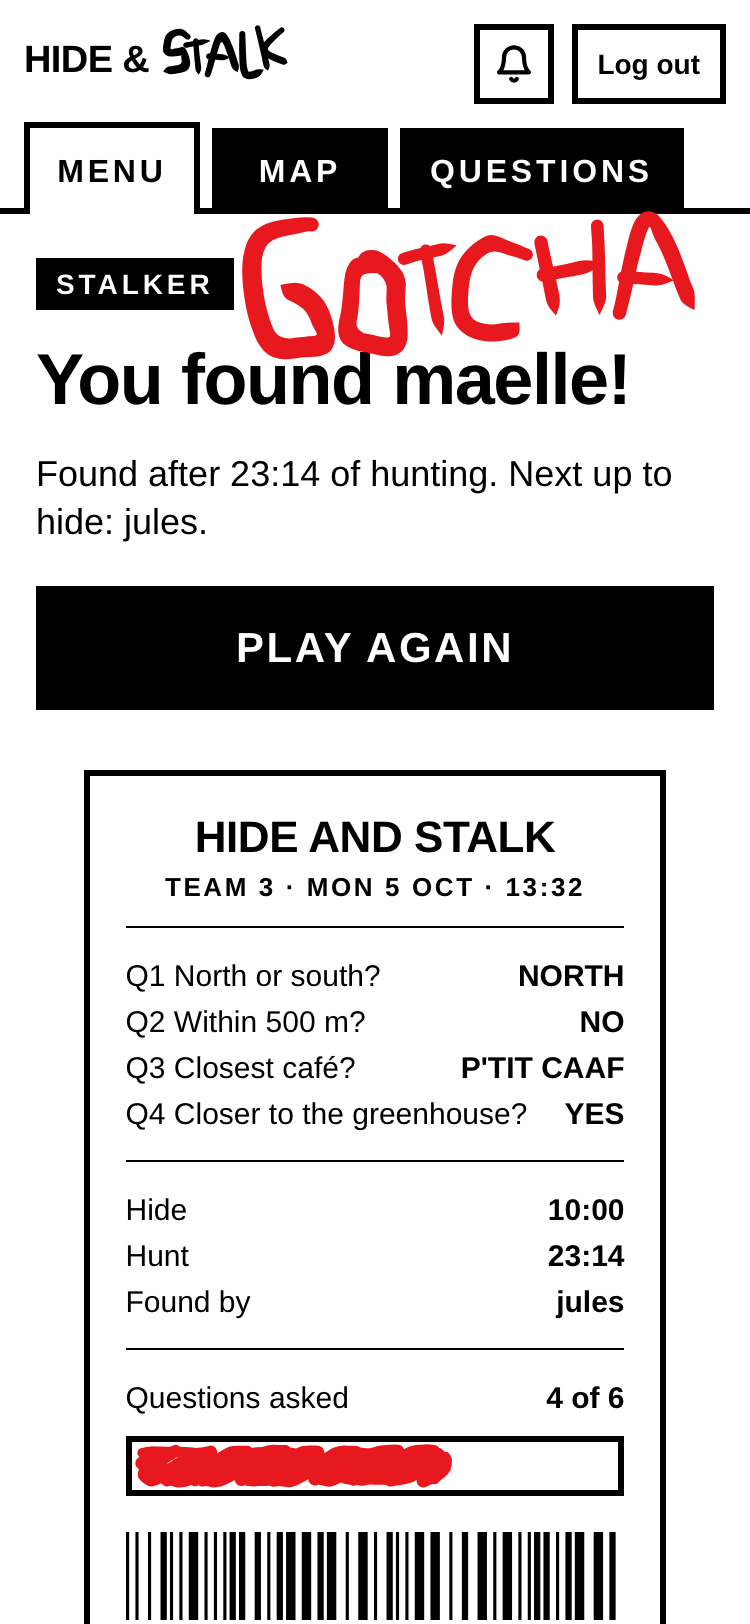
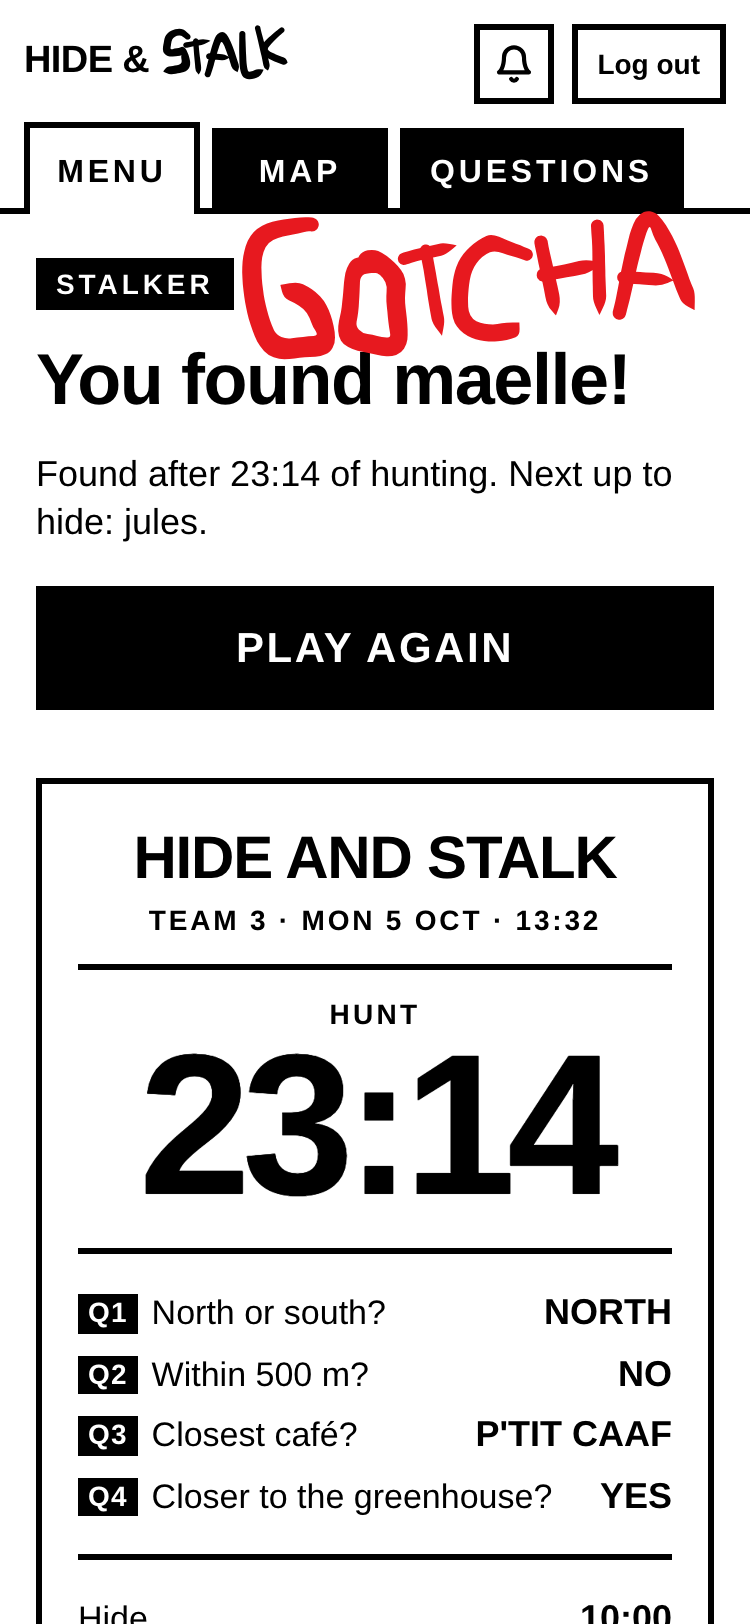
Design round 1: the receipt, R2 and R4 together, heavier
The hunt time big on the slip, and the round's final hints map printed
where the bar was: the app's own map (drawn by the lab at the slip's
size, framed on the white zone), black and white only, no red line, no X.
The slip as heavy as the rest of the app: as wide as PLAY AGAIN, 3 px
rules, bigger text, the question numbers in black boxes. R1 and R3 and
their renders are gone; the gallery's receipt section with them.

Changed region(s): [[0.0307, 0.4618, 0.9507, 1.0]]

diff --git a/design/promo/round-1/app/decorate.js b/design/promo/round-1/app/decorate.js
@@ -266,16 +266,18 @@
         return `<svg class="rc-tear" viewBox="0 0 100 12" preserveAspectRatio="none" width="100%" height="12"><path d="${d} Z" fill="#fff" stroke="none"/><path d="${d}" fill="none" stroke="#000" stroke-width="3" vector-effect="non-scaling-stroke" stroke-linejoin="miter"/></svg>`;
     }
     /**
-     * The receipt, as typeset. Treatments being tried (rcv): r1 the slip on a
-     * black table (CSS only), r2 the hunt time as big as the hiding countdown,
-     * r3 the red word stamped on the slip (drawn after), r4 the final hints
-     * map printed where the bar was (drawn after).
+     * The receipt, as typeset: the hunt time as big as the hiding countdown
+     * (R2), and where the bar was, the round's final hints map printed on the
+     * slip (R4). The map itself is drawn by the lab (Maps2.drawReceipt) and set
+     * by tools/shoot-app.mjs once the slip is laid out: see receiptMapNeed.
      */
-    function receiptEl(rc, rcv = "") {
-        const row = ([a, b]) => `<div class="rc-row"><span>${a}</span><b>${b === "REDACTED" ? '<i class="rc-redact"></i>' : b}</b></div>`;
+    function receiptEl(rc) {
+        // "Q1 North or south?": the number in a black box, like the app's labels.
+        const label = (a) => a.replace(/^(Q\d+) /, '<em class="rc-q">$1</em>');
+        const row = ([a, b]) => `<div class="rc-row"><span>${label(a)}</span><b>${b === "REDACTED" ? '<i class="rc-redact"></i>' : b}</b></div>`;
         const hunt = rc.totals.find(([a]) => a === "Hunt");
-        const hero = rcv === "r2" && hunt ? `<div class="rc-hero"><span>${hunt[0]}</span><b>${hunt[1]}</b></div><div class="rc-rule"></div>` : "";
-        const totals = hero ? rc.totals.filter((t) => t !== hunt) : rc.totals;
+        const hero = hunt ? `<div class="rc-hero"><span>${hunt[0]}</span><b>${hunt[1]}</b></div><div class="rc-rule"></div>` : "";
+        const totals = rc.totals.filter((t) => t !== hunt);
         const html = `<div class="receipt"><div class="rc-paper">
             <div class="rc-title">HIDE AND STALK</div>
             <div class="rc-head">${rc.head}</div>
@@ -283,7 +285,8 @@
             <div class="rc-rule"></div>${totals.map(row).join("")}
             <div class="rc-rule"></div>
             <div class="rc-row"><span>Questions asked</span><b>${rc.asked} of ${rc.of}</b></div>
-            ${rcv === "r4" ? '<div class="rc-map"></div>' : '<div class="rc-bar"></div>'}
+            <div class="rc-map"><img alt=""></div>
+            <div class="rc-osm">© OpenStreetMap</div>
             <div class="rc-code">${barcode(rc.head)}</div>
         </div>${tear()}</div>`;
         const btn = $("#team-again-btn");
@@ -291,42 +294,25 @@
     }
 
     /**
-     * r4: where she could still be when the round ended, printed small like a
-     * till's logo: the campus black, the hints layer's white left in it (the
-     * app's own answer-by-answer solve, src/hints.js), north up. Returns a
-     * function from [lng, lat] to the map's pixels, for the X.
+     * What the receipt's map needs drawn: its size inside the frame, and where
+     * she could still be when the round ended (the app's own answer-by-answer
+     * solve, src/hints.js). Null when there's no slip.
      */
-    function receiptMap(el) {
+    function receiptMapNeed() {
+        const el = $(".rc-map");
+        if (!el) return null;
         let region = null;
         HNSHints.onStatus((s) => {
             if (s.region) region = s.region;
         });
         HNSHints.setEnabled(true);
-        const ring = window.HNSLocations.layers.find((l) => l.kind === "polygon").ring;
-        const lat0 = ring.reduce((s, p) => s + p[1], 0) / ring.length;
-        const kx = Math.cos((lat0 * Math.PI) / 180);
-        const xs = ring.map((p) => p[0] * kx);
-        const ys = ring.map((p) => -p[1]);
-        const [x0, x1, y0, y1] = [Math.min(...xs), Math.max(...xs), Math.min(...ys), Math.max(...ys)];
-        const pad = 8;
-        const w = el.clientWidth;
-        const k = (w - pad * 2) / (x1 - x0);
-        const h = Math.round((y1 - y0) * k + pad * 2);
-        const P = ([lng, lat]) => [pad + (lng * kx - x0) * k, pad + (-lat - y0) * k];
-        const d = (rings) => rings.map((r) => `M${r.map((p) => P(p).map((v) => v.toFixed(1)).join(" ")).join("L")}Z`).join("");
-        const g = region?.geometry;
-        const polys = !g ? [] : g.type === "Polygon" ? [g.coordinates] : g.coordinates;
-        el.innerHTML = `<svg width="${w}" height="${h}" style="display:block"><path d="${d([ring])}" fill="#000"/><path d="${d(polys.flat())}" fill="#fff" fill-rule="evenodd"/></svg>`;
-        return P;
+        return region && { w: el.clientWidth, h: el.clientHeight, region };
     }
 
     function decorate(styleKey, screen, extra = null) {
         const perm = extra?.perm ?? null;
-        // The receipt's treatment being tried, if any (see receiptEl).
-        const rcv = extra?.rc ?? "";
         const S = STYLES[styleKey];
         document.body.dataset.style = styleKey;
-        document.body.dataset.rc = rcv;
         if (S.prune) prune(screen);
         const ink = S.dark ? "#fff" : "#000";
 
@@ -365,53 +351,7 @@
                 P.add(Ink.write(who, { x: b.x + 6, y: b.y + b.h - 6, size: 22, seed: `ini${sign.dataset.i}`, color: ink, importance: "info", tilt: -6 }).svg);
             }
         }
-        if (extra?.receipt && S.prune && visible($("#team-again-btn"))) {
-            receiptEl(extra.receipt, rcv);
-            const bar = $(".rc-bar");
-            if (bar) {
-                const b = L.box(bar);
-                const w = (b.w - 16) * (extra.receipt.asked / extra.receipt.of);
-                // Ruled out, coloured in by hand; stays inside the bar.
-                L.add(Ink.colorIn([[[b.x + 8, b.y + 8], [b.x + 3 + w, b.y + 8], [b.x + 3 + w, b.y + b.h - 8], [b.x + 8, b.y + b.h - 8]]], { seed: `bar${screen}`, weight: 7, overshoot: 0 }));
-            }
-            const map = $(".rc-map");
-            if (map) {
-                const P = receiptMap(map);
-                // Where they got her: the X (her own receipt keeps it redacted, like Where).
-                if (screen === "found" && extra.receipt.hider) {
-                    const m = L.box(map);
-                    const [x, y] = P(extra.receipt.hider);
-                    L.add(Ink.cross(m.x + x, m.y + y, 9, { seed: "rcx", weight: 5 }));
-                }
-            }
-            // r3: the red word stamped across the slip, over the answers, instead of over the title.
-            if (rcv === "r3") {
-                const rows = $$(".rc-paper .rc-row");
-                const top = L.box(rows[0]);
-                const last = L.box(rows[extra.receipt.lines.length - 1]);
-                const paper = L.box($(".rc-paper"));
-                const cx = paper.x + paper.w / 2;
-                const cy = (top.y + last.y + last.h) / 2;
-                let words;
-                let ww;
-                let wh;
-                if (screen === "found") {
-                    const g = Ink.tuck("GOTCHA", { size: 50, seed: "gotcha", mess: 1.2, tilt: 0, sizes: [1.5, 1, 0.98, 1.02, 0.96, 1.04], rises: [0.12, 0, 0.02, -0.02, 0.03, 0], spin: 4 });
-                    words = `<g transform="translate(${cx - g.box.x - g.box.w / 2} ${cy - g.box.y - g.box.h / 2})">${g.svg}</g>`;
-                    [ww, wh] = [g.box.w, g.box.h];
-                } else {
-                    // Two lines, a baseline 46 px under the other (write's y is the baseline).
-                    const o = { size: 34, tilt: 0, importance: "key", weight: 34 * 0.2 };
-                    const a = Ink.write("HOW ABOUT", { ...o, seed: "hat1" });
-                    const b = Ink.write("THAT.", { ...o, seed: "hat2" });
-                    ww = Math.max(a.width, b.width);
-                    wh = 34 + 46;
-                    words = Ink.write("HOW ABOUT", { ...o, seed: "hat1", x: cx - a.width / 2, y: cy - 6 }).svg + Ink.write("THAT.", { ...o, seed: "hat2", x: cx - b.width / 2, y: cy + 40 }).svg;
-                }
-                const frame = Ink.box(cx - ww / 2 - 16, cy - wh / 2 - 14, ww + 32, wh + 28, { seed: `stamp${screen}`, weight: 5, jitter: 5 });
-                L.add(`<g transform="rotate(-11 ${cx} ${cy})">${frame}${words}</g>`);
-            }
-        }
+        if (extra?.receipt && S.prune && visible($("#team-again-btn"))) receiptEl(extra.receipt);
         if (perm) {
             permSheet(perm);
             // The one thing to do next gets the arrow; what's done needs nothing.
@@ -629,7 +569,7 @@
             const pb = p && visible(p) ? L.box(p) : { x: tb.x, y: tb.y + 200, w: 300, h: 0 };
             noteAt(L, "WALK. DON'T RUN.", pb.x + 8, pb.y + pb.h + 86, { size: 30, maxWidth: 330, tilt: -4, importance: "key", weight: 6.2 });
         }
-        if ((screen === "found" || screen === "win") && tb && rcv !== "r3") {
+        if ((screen === "found" || screen === "win") && tb) {
             if (S.prune) {
                 // Above the title, just catching its top edge.
                 if (screen === "found") {
@@ -681,5 +621,5 @@
         }
     }
 
-    window.InkApp = { decorate };
+    window.InkApp = { decorate, receiptMapNeed };
 })();

diff --git a/design/promo/round-1/gallery/index.html b/design/promo/round-1/gallery/index.html
@@ -98,7 +98,7 @@ body.only-kept .tile:not(.kept):not(.settled-tile) { display: none; }
     </header>
 
     <nav class="bar" aria-label="Sections">
-        <a href="#post">The post</a><a href="#screens">Screens</a><a href="#opening">Opening</a><a href="#login">Log in</a><a href="#lobby">Lobby</a><a href="#hider">Hider</a><a href="#stalkers">Stalkers</a><a href="#map">Map</a><a href="#end">End</a><a href="#receipt">Receipt</a><a href="#pieces">Pieces</a>
+        <a href="#post">The post</a><a href="#screens">Screens</a><a href="#opening">Opening</a><a href="#login">Log in</a><a href="#lobby">Lobby</a><a href="#hider">Hider</a><a href="#stalkers">Stalkers</a><a href="#map">Map</a><a href="#end">End</a><a href="#pieces">Pieces</a>
         <span class="spacer"></span>
     </nav>
 
@@ -109,7 +109,7 @@ body.only-kept .tile:not(.kept):not(.settled-tile) { display: none; }
 
 <script>
 // The review: the post (the source of truth), then every app screen as it
-// stands (with the receipt options), then the one piece no screen shows.
+// stands, then the one piece no screen shows.
 // Times are Montréal time: Tue = Sep 29, Wed = Sep 30, Thu = Oct 1.
 // Who: c1 / c2 = the two cloud sessions (their commits; their chats aren't on
 // this Mac), m = you, in the map session on this Mac (Wed 01:43-03:38),
@@ -382,21 +382,25 @@ const CHAPTERS = [
             ["Tue 17:26", "c1:9f9f429", "First drawn"],
             ["Tue 20:19", "c1:3096ae5", "The round as a receipt"],
             ["Tue 23:56", "c1:e1d93d8", "The receipt's barcode"],
-        ], "Thu 12:25", "E23"],
+            ["Thu 14:42", "y", "The receipt: R2 and R4 together (the hunt time big, the final hints map on the slip); the map the app's own, black and white, no red line, no X; heavier: as wide as PLAY AGAIN, 3 px rules, bigger text, the question numbers in black boxes"],
+        ], "Thu 14:47", "E23"],
         ["S72", "Their receipt, scrolled to its end", app("23b", "found"), [
             ["Tue 20:19", "c1:3096ae5", "First drawn"],
             ["Tue 23:56", "c1:e1d93d8", "The barcode"],
             ["Wed 07:02", "s", "“greenhouse”, singular"],
-        ], "Thu 12:25", "E23b"],
+            ["Thu 14:42", "y", "The receipt: R2 and R4 together (the hunt time big, the final hints map on the slip); the map the app's own, black and white, no red line, no X; heavier: as wide as PLAY AGAIN, 3 px rules, bigger text, the question numbers in black boxes"],
+        ], "Thu 14:47", "E23b"],
         ["S73", "The hider wins: HOW ABOUT THAT.", app("24", "win"), [
             ["Tue 17:26", "c1:9f9f429", "First drawn"],
             ["Tue 20:19", "c1:3096ae5", "The receipt, where she hid redacted"],
             ["Thu 12:25", "t", "The QUESTIONS tab, as on the post's maps"],
-        ], "Thu 14:02", "E24"],
+            ["Thu 14:42", "y", "The receipt: R2 and R4 together (the hunt time big, the final hints map on the slip); the map the app's own, black and white, no red line, no X; heavier: as wide as PLAY AGAIN, 3 px rules, bigger text, the question numbers in black boxes"],
+        ], "Thu 14:47", "E24"],
         ["S74", "Her receipt, where she was redacted", app("24b", "win"), [
             ["Tue 20:19", "c1:3096ae5", "First drawn"],
             ["Wed 07:02", "s", "“greenhouse”, singular"],
-        ], "Thu 14:02", "E24b"],
+            ["Thu 14:42", "y", "The receipt: R2 and R4 together (the hunt time big, the final hints map on the slip); the map the app's own, black and white, no red line, no X; heavier: as wide as PLAY AGAIN, 3 px rules, bigger text, the question numbers in black boxes"],
+        ], "Thu 14:47", "E24b"],
     ]],
 ];
 
@@ -407,16 +411,6 @@ const PIECES = [
         ["Wed 00:51", "c1:b02ac5f", "Settled, as one card"],
     ], "Wed 01:55", "C19"],
 ];
-
-// The receipt, more drama (asked Thu 13:54): four treatments, each on the four
-// end screens, rendered with RC=r1..r4 (tools/shoot-app.mjs). [code, name, what, key, rendered].
-const RC_OPTIONS = [
-    ["R1", "On a black table", "The slip on black, edge to edge, from under PLAY AGAIN down: the one white thing left on the screen.", "r1", "Thu 14:08"],
-    ["R2", "Big numbers", "The hunt time as big as the hiding countdown (S41); the rest of the slip as it was.", "r2", "Thu 14:05"],
-    ["R3", "Stamped", "GOTCHA (or HOW ABOUT THAT.) stamped across the answers instead of written over the title; the print shows through the red, like ink.", "r3", "Thu 14:09"],
-    ["R4", "The map on the slip", "Where the bar was, the round's final hints layer printed small: the campus black, the white she could still be in, the X where they got her. Her own receipt has no X: Where stays redacted.", "r4", "Thu 14:09"],
-];
-const RC_VIEWS = [["a", "23", "-found", "Stalkers win (S71)"], ["b", "23", "b-found", "Their receipt, to its end (S72)"], ["c", "24", "-win", "The hider wins (S73)"], ["d", "24", "b-win", "Her receipt, to its end (S74)"]];
 
 const tl = (events, rendered) => {
     const [made, ...rest] = events;
@@ -447,14 +441,6 @@ for (const [id, head, intro, items] of CHAPTERS) {
     html += `<h3 id="${id}">${head}</h3>${intro ? `<p class="note">${intro}</p>` : ""}<div class="grid">`;
     for (const it of items) html += tile(...it);
     html += `</div>`;
-    if (id === "end") {
-        html += `<h3 id="receipt">The receipt, with more drama</h3><p class="note">Four ways to try, each on the four end screens above. Pick one, or mix them (R2's numbers on R1's table, say).</p>`;
-        for (const [code, name, what, key, rendered] of RC_OPTIONS) {
-            html += `<div class="opt"><h3>${code} · ${name}</h3><p class="note">${what}</p><div class="grid">`;
-            for (const [v, n, slug, cap] of RC_VIEWS) html += tile(code + v, cap, `img/E-${n}${key}${slug}.png`, [["Thu 13:54", "y", "More drama or contrast on the receipt: " + name.toLowerCase()]], rendered);
-            html += `</div></div>`;
-        }
-    }
 }
 html += `</section>`;
 

diff --git a/design/promo/round-1/app/style-e.css b/design/promo/round-1/app/style-e.css
@@ -288,33 +288,33 @@ button, input { font-family: inherit; }
 .rule-ok { margin-top: 18px; }
 
 /* The end: the round as a receipt ---------------------------------------- */
-.receipt { margin: 24px auto 0; width: 86%; filter: drop-shadow(0 0 0 #000); }
+/* As heavy as the rest of the app: as wide as PLAY AGAIN, the 3 px rules,
+   the text at the app's sizes, bold where it counts. */
+.receipt { margin: 28px 0 0; width: 100%; }
 .rc-paper {
-    position: relative; padding: 18px 18px 30px; background: var(--paper); border: var(--rule) solid var(--ink); border-bottom: none;
+    position: relative; padding: 22px 18px 30px; background: var(--paper); border: var(--rule) solid var(--ink); border-bottom: none;
     /* the torn bottom edge */
 }
-.rc-title { font-size: 22px; font-weight: 700; letter-spacing: -.01em; text-align: center; }
-.rc-head { margin-top: 4px; font-size: 13px; font-weight: 700; letter-spacing: .1em; text-align: center; }
-.rc-rule { margin: 12px 0; border-top: 1.5px solid var(--ink); }
+.rc-title { font-size: 30px; font-weight: 700; line-height: 1; letter-spacing: -.02em; text-align: center; }
+.rc-head { margin-top: 8px; font-size: 14px; font-weight: 700; letter-spacing: .1em; text-align: center; }
+.rc-rule { margin: 14px 0; border-top: var(--rule) solid var(--ink); }
 .rc-code { margin-top: 18px; }
-.rc-num { margin-top: 4px; font-size: 11px; font-weight: 700; letter-spacing: .32em; text-align: center; }
+.rc-code svg { height: 60px; }
+.rc-num { margin-top: 6px; font-size: 13px; font-weight: 700; letter-spacing: .32em; text-align: center; }
 /* The torn bottom: its line is the sides' line, zigzagging across. */
 .rc-tear { display: block; margin-top: -1px; overflow: visible; }
-.rc-row { display: flex; justify-content: space-between; gap: 10px; padding: 3px 0; font-size: 15px; }
-.rc-row b { text-align: right; white-space: nowrap; }
-.rc-redact { display: inline-block; width: 110px; height: 15px; background: var(--ink); vertical-align: -2px; }
-.rc-bar { margin-top: 8px; height: 30px; box-sizing: border-box; border: var(--rule) solid var(--ink); }
-/* Treatments being tried (body[data-rc], see receiptEl in app/decorate.js). */
-/* r1: the slip on a black table, edge to edge, from under PLAY AGAIN down. */
-body[data-rc="r1"] .receipt { margin-top: 28px; padding-top: 30px; background: var(--ink); filter: none; box-shadow: 0 0 0 100vmax var(--ink); clip-path: inset(0 -100vmax -100vmax -100vmax); }
-/* r3: the stamp's red sits in the print, like ink: the type shows through it. */
-body[data-rc="r3"] #view-menu > .ink-layer { mix-blend-mode: multiply; }
-/* r2: the hunt time as big as the hiding countdown's. */
+.rc-row { display: flex; justify-content: space-between; align-items: baseline; gap: 10px; padding: 4px 0; font-size: 17px; line-height: 1.25; }
+.rc-row b { font-size: 18px; text-align: right; white-space: nowrap; }
+.rc-q { display: inline-block; margin-right: 7px; padding: 1px 5px; background: var(--ink); color: var(--paper); font-size: 14px; font-style: normal; font-weight: 700; letter-spacing: .04em; vertical-align: 1px; }
+.rc-redact { display: inline-block; width: 120px; height: 19px; background: var(--ink); vertical-align: -3px; }
+/* The hunt time as big as the hiding countdown's. */
 .rc-hero { text-align: center; }
-.rc-hero span { display: block; font-size: 13px; font-weight: 700; letter-spacing: .12em; text-transform: uppercase; }
-.rc-hero b { display: block; font-size: 88px; font-weight: 700; line-height: .95; letter-spacing: -.04em; font-variant-numeric: tabular-nums; }
-/* r4: the final hints map, printed where the bar was. */
-.rc-map { margin-top: 10px; border: var(--rule) solid var(--ink); }
+.rc-hero span { display: block; font-size: 14px; font-weight: 700; letter-spacing: .12em; text-transform: uppercase; }
+.rc-hero b { display: block; font-size: 100px; font-weight: 700; line-height: .95; letter-spacing: -.04em; font-variant-numeric: tabular-nums; }
+/* The final hints map, printed where the bar was (drawn by the lab, see receiptMapNeed). */
+.rc-map { margin-top: 12px; aspect-ratio: 1 / .9; box-sizing: border-box; border: var(--rule) solid var(--ink); background: var(--ink); }
+.rc-map img { display: block; width: 100%; height: 100%; }
+.rc-osm { margin-top: 4px; font-size: 11px; text-align: right; }
 
 /* Third pass ------------------------------------------------------------- */
 /* Later: there, but small, so nobody presses it by mistake. */

diff --git a/design/promo/round-1/lab/maps2.js b/design/promo/round-1/lab/maps2.js
@@ -1060,5 +1060,41 @@
     }
     const POST = Object.fromEntries(Object.entries(POST_PLACES).map(([k, list]) => [k, list.map((p) => p.name)]));
 
-    window.Maps2 = { tagsOnly, youOnly, pinOnly, list: LIST.map((o, i) => ({ n: i + 1, name: o.name })), draw, drawSkin, drawHint, drawPost, POST, SKIN_LIST };
+    /**
+     * The receipt's map (app/decorate.js): the round's final hints layer, printed
+     * as the map shows it (MAP_SKIN, north up, framed on the white zone), only black and
+     * white: what's ruled out inverted, the white she could still be in as the
+     * map. No red, no line, no X. spec: { region } (GeoJSON, from the app's own
+     * solve, src/hints.js); root is already w x h.
+     */
+    async function drawReceipt(root, spec, w, h) {
+        root.style.background = "#fff";
+        const layer = (inv) => {
+            const el = document.createElement("div");
+            el.style.cssText = `position:absolute;left:0;top:0;width:${w}px;height:${h}px;background:#fff${inv ? ";filter:invert(1)" : ""}`;
+            root.appendChild(el);
+            return el;
+        };
+        // The same map twice, each on its own Leaflet map framed the same way:
+        // on the white she could still be in, with the streets around it.
+        const zone = L.geoJSON(spec.region).getBounds();
+        await OSMDraw.ready;
+        const print = (el) => {
+            const m = L.map(el, { zoomControl: false, attributionControl: false, zoomSnap: 0, fadeAnimation: false, zoomAnimation: false });
+            m.fitBounds(zone, { padding: [w * 0.22, h * 0.22], animate: false });
+            el.appendChild(OSMDraw.render(m, DATA_SKINS[MAP_SKIN], w, h));
+            return m;
+        };
+        print(layer(true));
+        const open = layer(false);
+        const map = print(open);
+        const P = ([lng, lat]) => {
+            const p = map.latLngToContainerPoint([lat, lng]);
+            return [p.x, p.y];
+        };
+        const d = ringsOf(spec.region.geometry).map((poly) => poly.map((r) => ringD(r.map(P))).join("")).join("");
+        open.style.clipPath = `path(evenodd, '${d}')`;
+    }
+
+    window.Maps2 = { tagsOnly, youOnly, pinOnly, list: LIST.map((o, i) => ({ n: i + 1, name: o.name })), draw, drawSkin, drawHint, drawPost, drawReceipt, POST, SKIN_LIST };
 })();

diff --git a/design/promo/round-1/lab/view.html b/design/promo/round-1/lab/view.html
@@ -70,6 +70,9 @@
                 await Maps2.drawHint(root, v);
             } else if (set === "skin") {
                 await Maps2.drawSkin(root, v);
+            } else if (set === "receipt") {
+                // The spec is set by tools/shoot-app.mjs before the page loads.
+                await Maps2.drawReceipt(root, window.__receipt, W, H);
             } else if (set === "post") {
                 await Maps2.drawPost(root, String(q.get("v")));
             } else if (set === "map2") {
